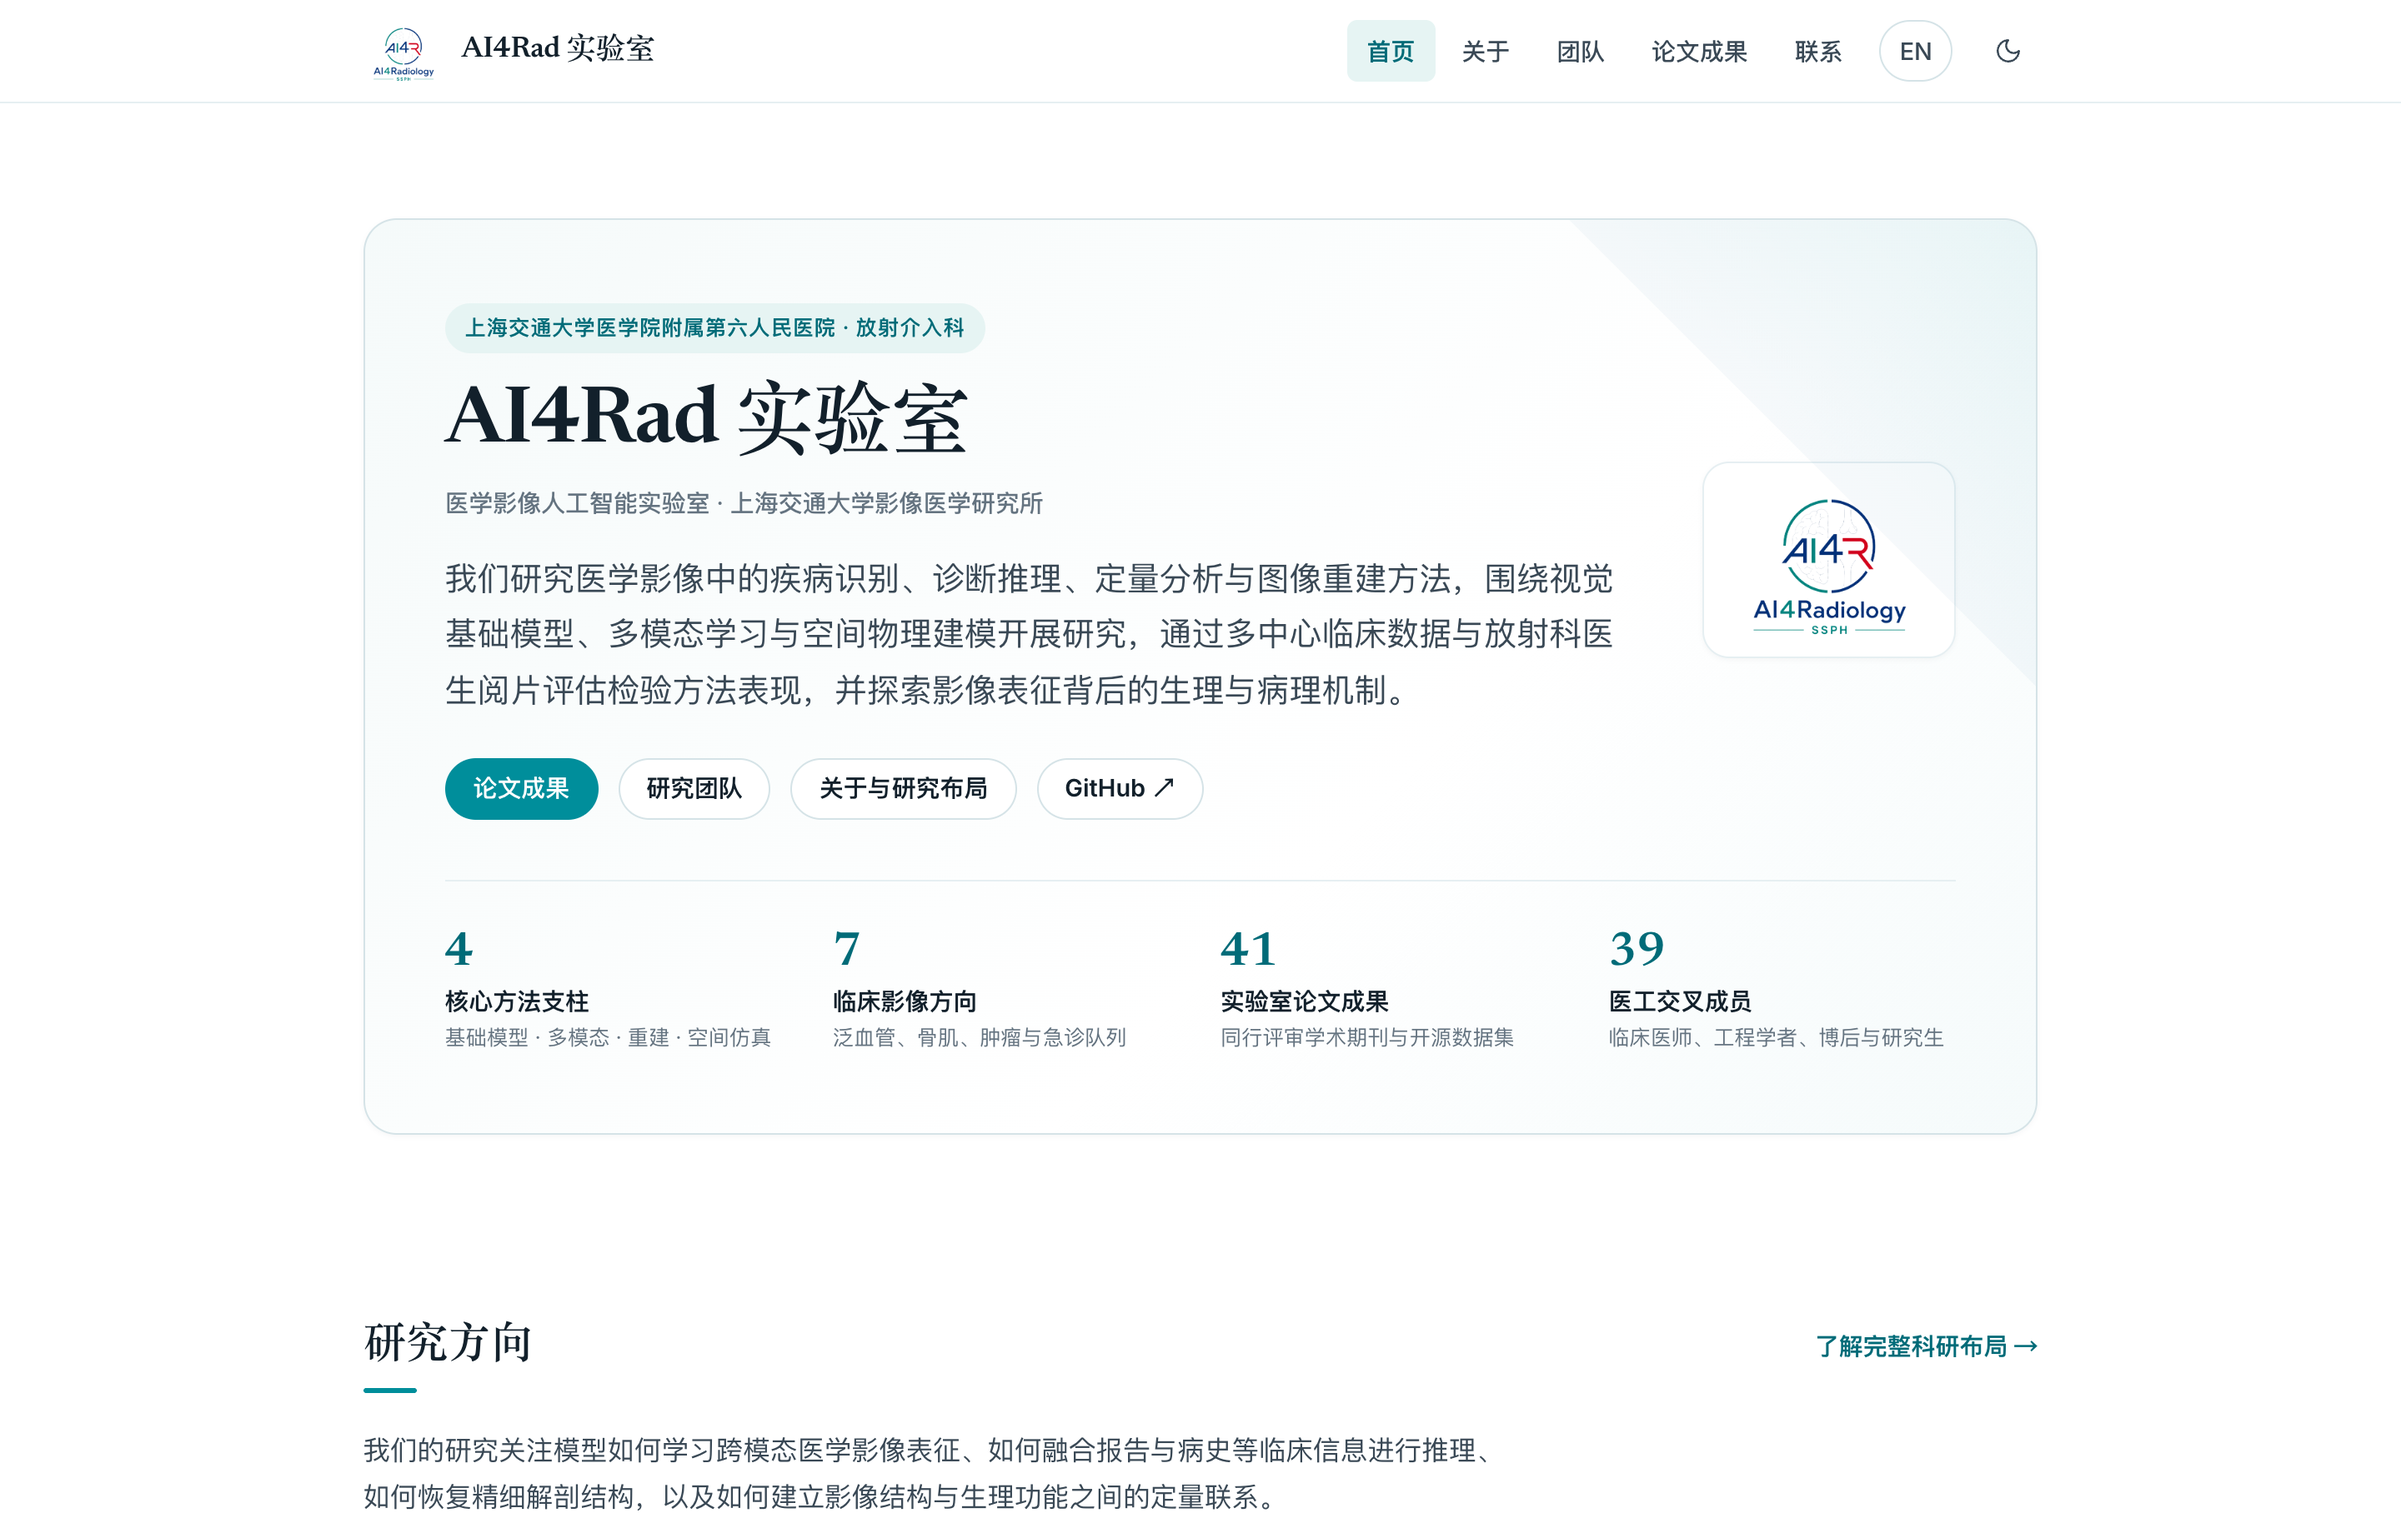
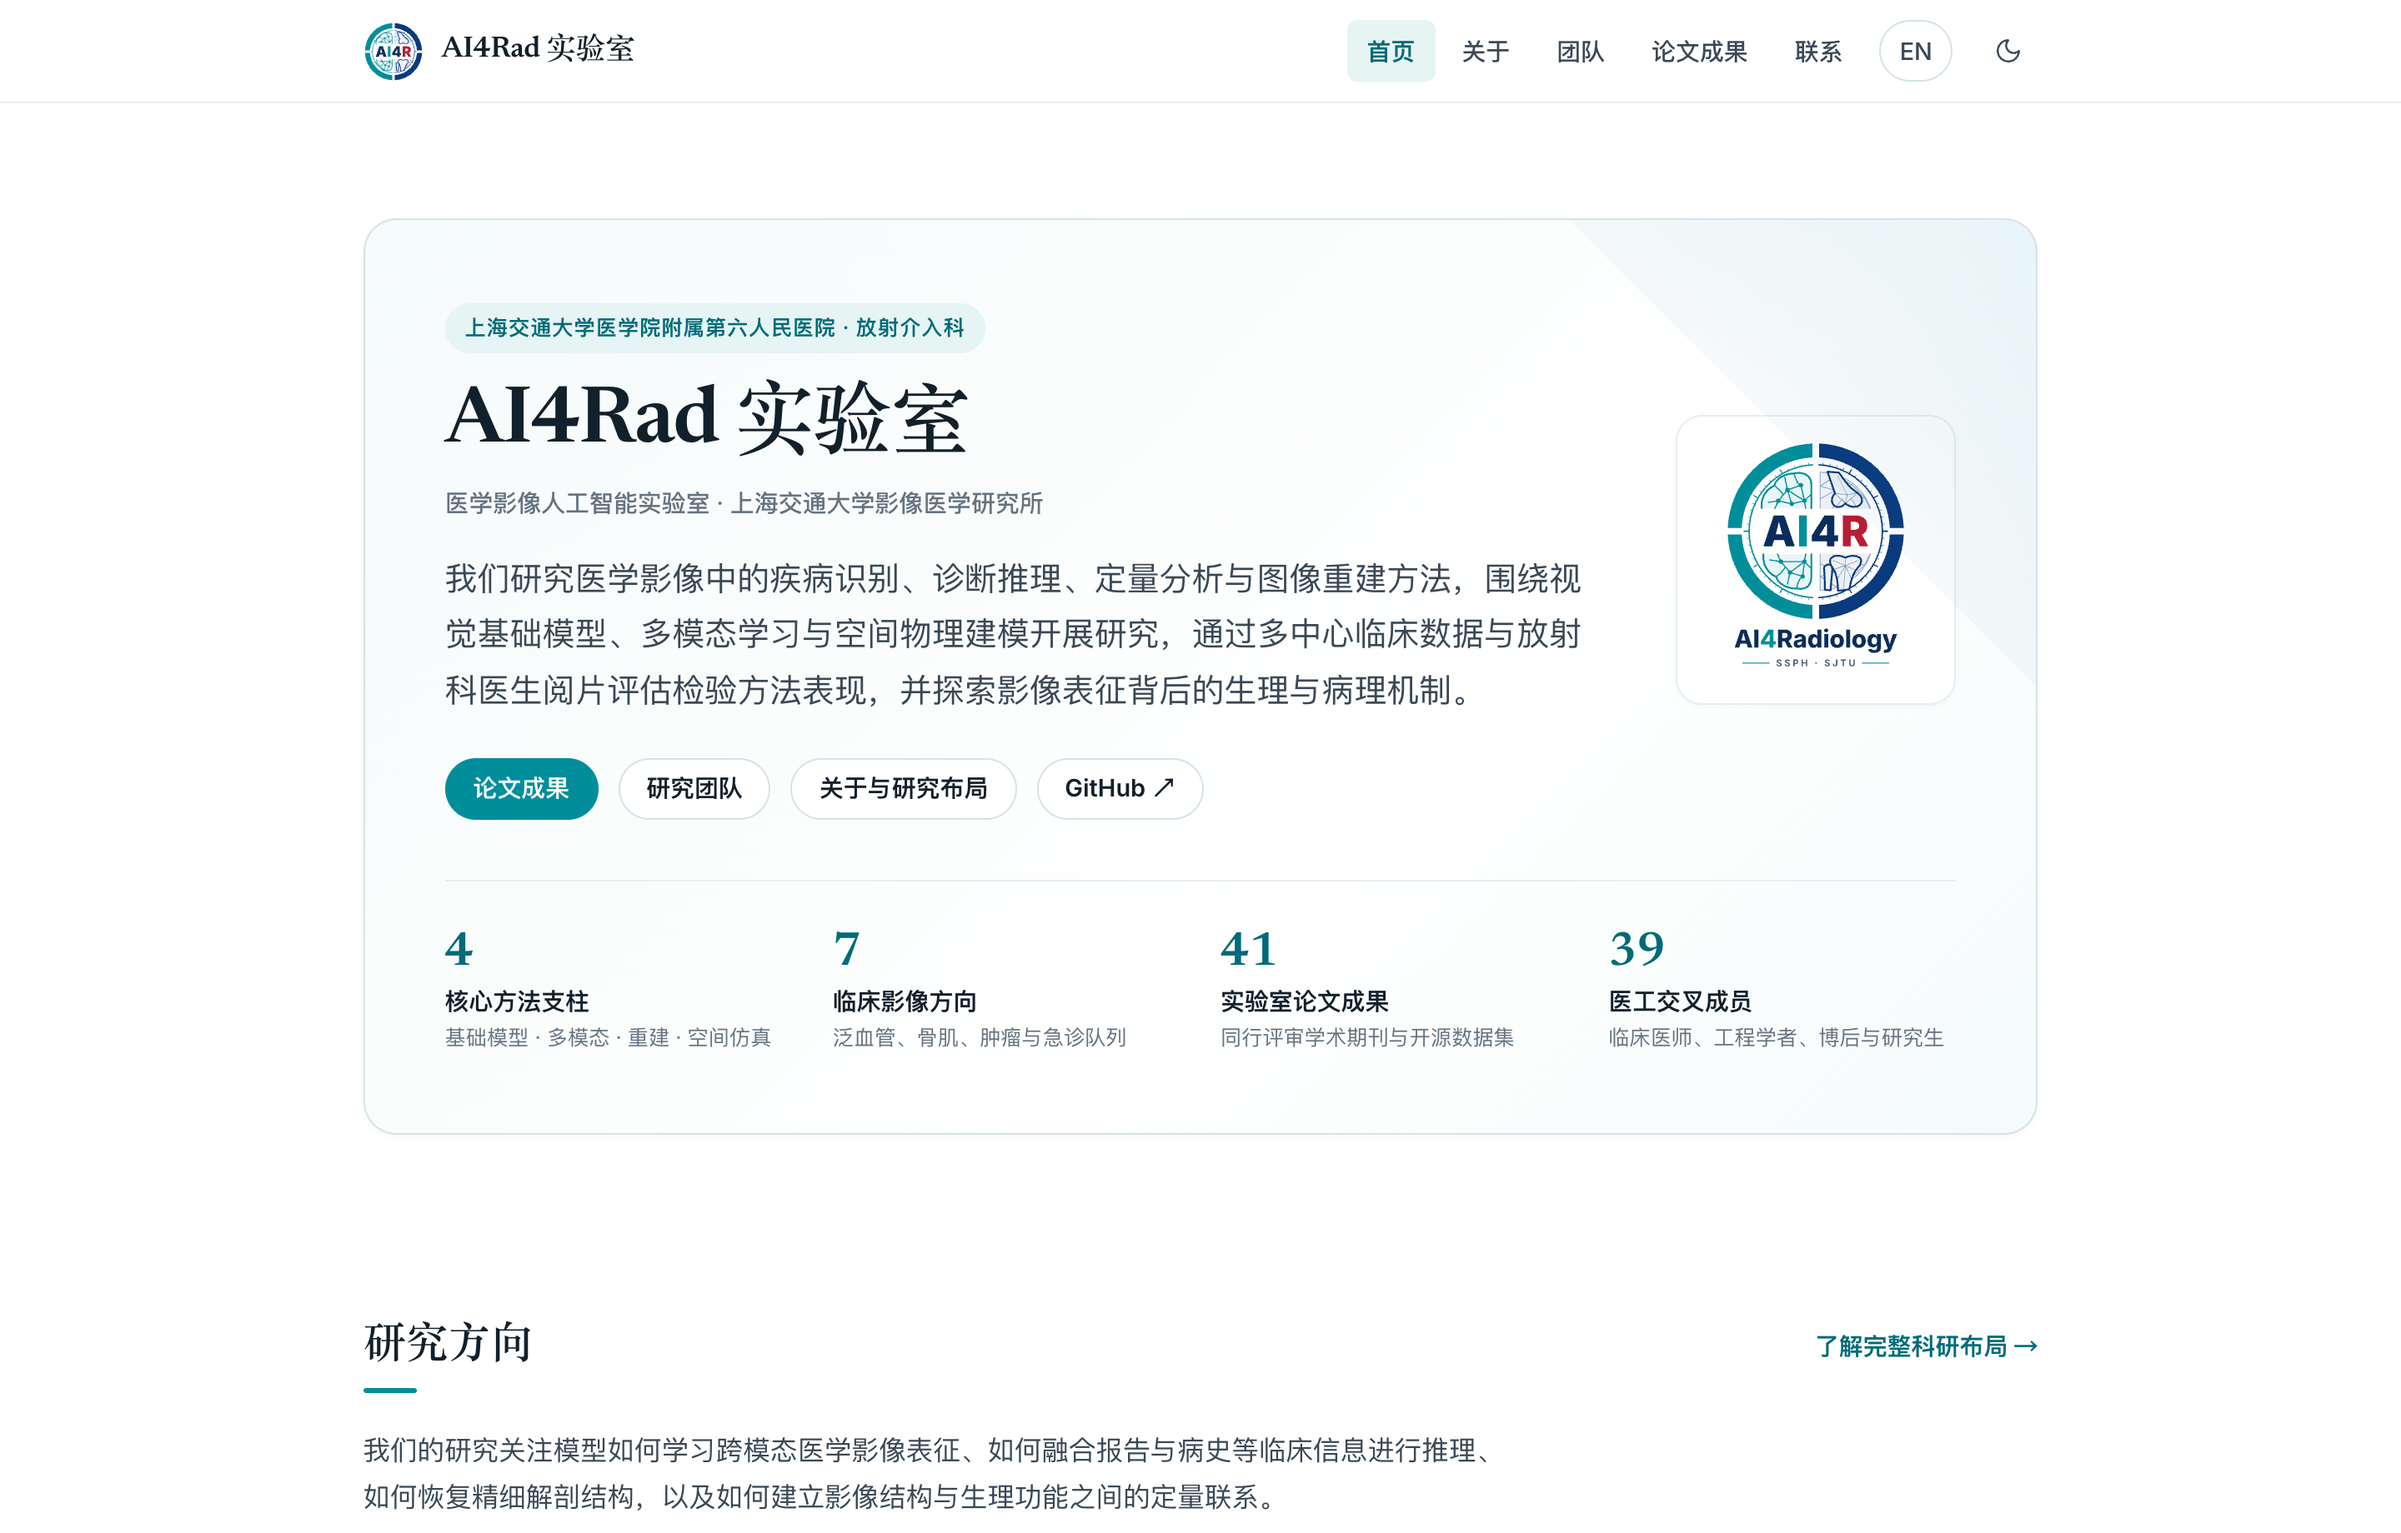
Update GitHub README dark-mode-aware SVG emblem and preview

Changed region(s): [[0.1875, 0.4027, 0.6875, 0.4647], [0.7188, 0.2788, 0.8125, 0.4337], [0.1562, 0.0, 0.2812, 0.062]]

diff --git a/README.zh-CN.md b/README.zh-CN.md
@@ -4,7 +4,10 @@
 
 <div align="center">
 
-<img src="images/brand/team-logo.png" alt="AI4Rad Lab" width="140">
+<picture>
+  <source media="(prefers-color-scheme: dark)" srcset="images/brand/team-logo-dark.svg">
+  <img src="images/brand/team-logo.svg" alt="AI4Rad Lab" width="148">
+</picture>
 
 # AI4Rad Lab · 医学影像人工智能
 

diff --git a/README.md b/README.md
@@ -4,7 +4,10 @@
 
 <div align="center">
 
-<img src="images/brand/team-logo.png" alt="AI4Rad Lab" width="140">
+<picture>
+  <source media="(prefers-color-scheme: dark)" srcset="images/brand/team-logo-dark.svg">
+  <img src="images/brand/team-logo.svg" alt="AI4Rad Lab" width="148">
+</picture>
 
 # AI4Rad Lab · Medical Imaging AI
 
